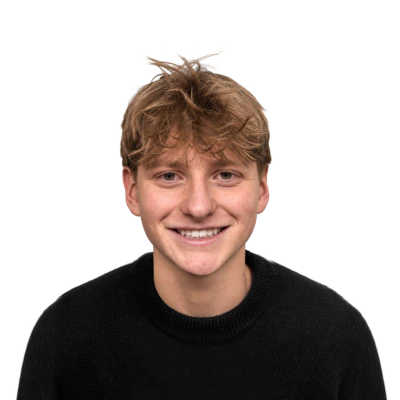
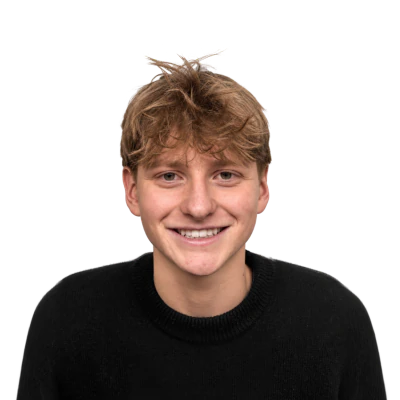
Publish the relaxed shoulder line in Maximilian’s team picture

Changed region(s): [[0.63, 0.63, 0.96, 0.93], [0.06, 0.63, 0.36, 0.9], [0.03, 0.9, 0.06, 0.93]]

diff --git a/index.html b/index.html
@@ -447,7 +447,7 @@
     </div>
   </article>
   <article class="team-person" id="maximilian-schwarz" aria-labelledby="maximilian-name">
-    <div class="team-photo"><img src="assets/people/maximilian-schwarz-team-400.webp?v=0048b017" srcset="assets/people/maximilian-schwarz-team-96.webp?v=642043d1 96w, assets/people/maximilian-schwarz-team-400.webp?v=0048b017 400w, assets/people/maximilian-schwarz-team-800.webp?v=bfdcc576 800w" sizes="auto, (max-width: 539px) 36px, 42px" alt="" width="800" height="800" loading="lazy" decoding="async"></div>
+    <div class="team-photo"><img src="assets/people/maximilian-schwarz-team-400.webp?v=34d7be66" srcset="assets/people/maximilian-schwarz-team-96.webp?v=258a45a1 96w, assets/people/maximilian-schwarz-team-400.webp?v=34d7be66 400w, assets/people/maximilian-schwarz-team-800.webp?v=2d9e3b3b 800w" sizes="auto, (max-width: 539px) 36px, 42px" alt="" width="800" height="800" loading="lazy" decoding="async"></div>
     <div class="team-person-copy">
       <h3 id="maximilian-name" data-i18n-ignore>Maximilian Schwarz</h3>
       <p class="team-role" lang="en" translate="no" data-i18n-ignore>Strategy &amp; Product</p>

diff --git a/unternehmen.html b/unternehmen.html
@@ -94,7 +94,7 @@
     </div>
   </article>
   <article class="team-person" id="maximilian-schwarz" aria-labelledby="maximilian-name">
-    <div class="team-photo"><img src="assets/people/maximilian-schwarz-team-400.webp?v=0048b017" srcset="assets/people/maximilian-schwarz-team-96.webp?v=642043d1 96w, assets/people/maximilian-schwarz-team-400.webp?v=0048b017 400w, assets/people/maximilian-schwarz-team-800.webp?v=bfdcc576 800w" sizes="auto, (max-width: 650px) 96px, 192px" alt="" width="800" height="800" loading="lazy" decoding="async"></div>
+    <div class="team-photo"><img src="assets/people/maximilian-schwarz-team-400.webp?v=34d7be66" srcset="assets/people/maximilian-schwarz-team-96.webp?v=258a45a1 96w, assets/people/maximilian-schwarz-team-400.webp?v=34d7be66 400w, assets/people/maximilian-schwarz-team-800.webp?v=2d9e3b3b 800w" sizes="auto, (max-width: 650px) 96px, 192px" alt="" width="800" height="800" loading="lazy" decoding="async"></div>
     <div class="team-person-copy">
       <h3 id="maximilian-name" data-i18n-ignore>Maximilian Schwarz</h3>
       <p class="team-role" lang="en" translate="no" data-i18n-ignore>Strategy &amp; Product</p>
